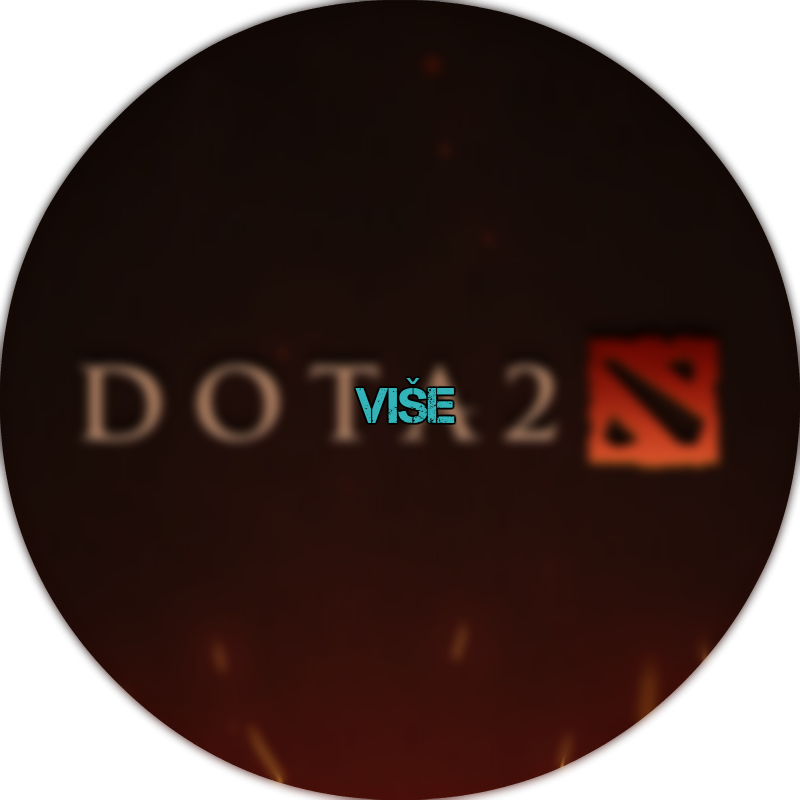
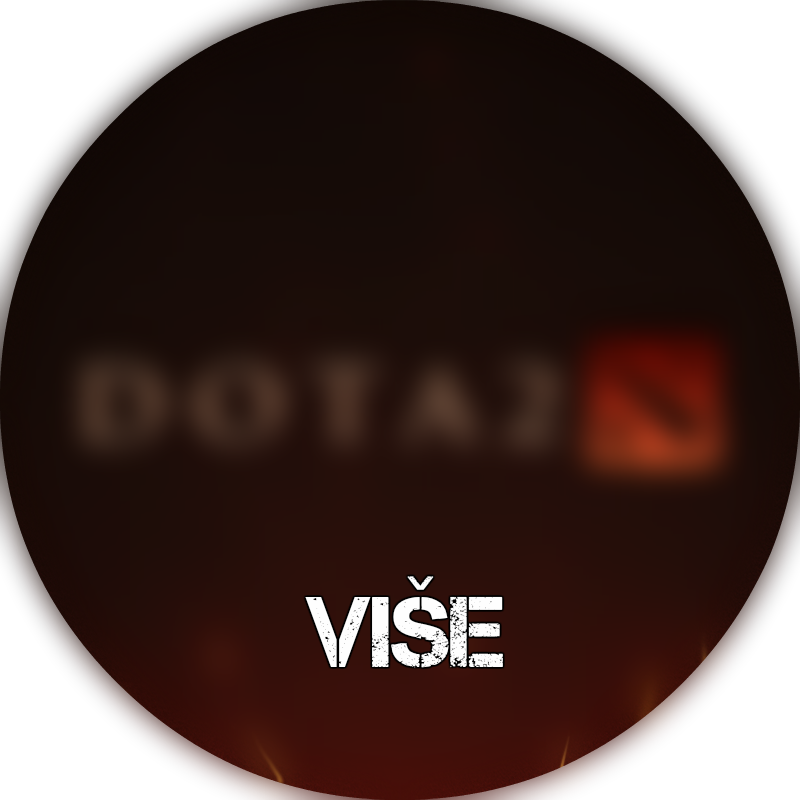
Zavrsene slike i linkovi za upis stranu

diff --git a/js/app.js b/js/app.js
@@ -1,10 +1,17 @@
 $(document).ready(function(){
-	$('.bxslider').bxSlider({
-		mode: 'fade',
-		auto: true,
-		speed: 700,
-	});
+	if($('.bxslider').length > 0)
+		$('.bxslider').bxSlider({
+			mode: 'fade',
+			auto: true,
+			speed: 700,
+		});
 
+	if(location.pathname.includes('upis') && location.search !== ""){
+		$('#select').val(location.search[1]);
+		$('#select').css("box-shadow","0 0 5px #34B5BA");
+	}
+
+	console.log($(window).width());
 	//==============validacije====================================
 
 	function validateEmail(email) {
@@ -41,17 +48,90 @@ $(document).ready(function(){
 	});
 
 	$("#message").on("keypress",function(event){
-		console.log(event);
 		$("#message").css("color","white");
 	});
 
 
+	function showGames(){
+		$("#dota2").css("opacity","1");
+		$("#CSGO").css("opacity","1");
+		$("#HS").css("opacity","1");
+		$("#SC2").css("opacity","1");
+		$("#LOL").css("opacity","1");
+	}
+
+	function hideGames(){
+		$("#dota2").css("opacity","0");
+		$("#CSGO").css("opacity","0");
+		$("#HS").css("opacity","0");
+		$("#SC2").css("opacity","0");
+		$("#LOL").css("opacity","0");
+	}
+
+	
+
 	$('#img-blur').on({
     'mouseover' : function() {
-      	$(this).attr('src','images/LogoBlur.png');
+      	showGames();
     },
     'mouseout' : function() {
-  		$(this).attr('src','images/Logo.png');
+  		hideGames();
     }
   });
+
+	$('#dota2').on({
+    'mouseover' : function() {
+      	$(this).attr('src','images/old/DOTA2Blur.png');
+      	showGames();
+    },
+    'mouseout' : function() {
+  		$(this).attr('src','images/old/DOTA2.png');
+  		hideGames();
+    }
+  });
+
+	$('#CSGO').on({
+    'mouseover' : function() {
+      	$(this).attr('src','images/old/CSGOBlur.png');
+      	showGames();
+    },
+    'mouseout' : function() {
+  		$(this).attr('src','images/old/CSGO.png');
+  		hideGames();
+    }
+  });
+
+	$('#LOL').on({
+    'mouseover' : function() {
+      	$(this).attr('src','images/old/LOLBlur.png');
+      	showGames();
+    },
+    'mouseout' : function() {
+  		$(this).attr('src','images/old/LOL.png');
+  		hideGames();
+    }
+  });
+
+	$('#SC2').on({
+    'mouseover' : function() {
+      	$(this).attr('src','images/old/Starcraft2Blur.png');
+      	showGames();
+    },
+    'mouseout' : function() {
+  		$(this).attr('src','images/old/Starcraft2.png');
+  		hideGames();
+    }
+  });
+
+	$('#HS').on({
+    'mouseover' : function() {
+      	$(this).attr('src','images/old/HearthstoneBlur.png');
+      	showGames();
+    },
+    'mouseout' : function() {
+  		$(this).attr('src','images/old/Hearthstone.png');
+  		hideGames();
+    }
+  });
+	
 });

diff --git a/index.html b/index.html
@@ -93,9 +93,14 @@
         </div>
     </section>
 
-    <div class="container">
+    <div class="container slike">
         <div class="row">
-            <img src="images/Logo.png" id="img-blur" class="img-center" width="350px" height="350px">
+            <a href="upis.html?5"><img src="images/old/DOTA2.png" id="dota2"></a>
+            <a href="upis.html?1"><img src="images/old/LOL.png" id="LOL"></a>
+            <a href="upis.html?2"><img src="images/old/CSGO.png" id="CSGO"></a>
+            <a href="upis.html?4"><img src="images/old/Hearthstone.png" id="HS"></a>
+            <a href="upis.html?3"><img src="images/old/Starcraft2.png" id="SC2"></a>
+            <a href="upis.html"><img src="images/Logo.png" id="img-blur" class="img-center" width="350px" height="350px"></a>
         </div>
     </div>
 

diff --git a/upis.html b/upis.html
@@ -77,11 +77,11 @@
 			  <div class="form-group">
 			    <label for="select">Izaberite igru</label>
 			    <select class="form-control" id="select">
-			      <option>League of Legends</option>
-			      <option>Counter Strike: Global Offensive</option>
-			      <option>Starcraft 2</option>
-			      <option>Hearthstone</option>
-			      <option>DOTA 2</option>
+			      <option value="1">League of Legends</option>
+			      <option value="2">Counter Strike: Global Offensive</option>
+			      <option value="3">Starcraft 2</option>
+			      <option value="4">Hearthstone</option>
+			      <option value="5">DOTA 2</option>
 			    </select>
 			  </div>
 			  

diff --git a/css/custom.css b/css/custom.css
@@ -204,5 +204,42 @@ select[class=form-control]:focus, textarea:focus {
   border: 1px #34B5BA ;
 }
 
+/* slike igrica */
 
+#img-blur:hover{
+  z-index: -1;
+  transition: 0.4s -webkit-filter linear;
+  -webkit-filter: blur(3px);
+}
+#dota2, #LOL, #CSGO, #HS, #SC2{
+  opacity: 0;
+  z-index: 1;
+  position: absolute;
+  width: 150px; height: 150px;
+}
+
+#dota2{
+  margin-left: 670px;
+  margin-top: -40px;
+}
+
+#LOL{
+  margin-left: 700px;
+  margin-top: 200px;
+}
+
+#CSGO{
+  margin-left: 480px;
+  margin-top: 310px;
+}
+
+#HS{
+  margin-left: 300px;
+  margin-top: 150px;
+}
+
+#SC2{
+  margin-left: 370px;
+  margin-top: -60px;
+}
 

diff --git a/css/footer.css b/css/footer.css
@@ -7,7 +7,7 @@
 	text-align: left;
 
 	padding: 50px 60px 40px;
-	margin-top: 80px;
+	margin-top: 200px;
 	overflow: hidden;
 }
 
